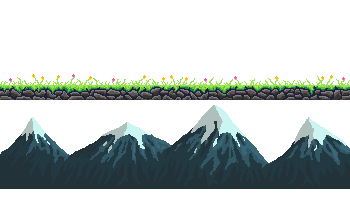
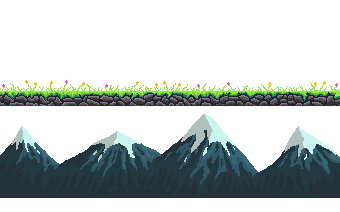
style: adpat screen size to 16:5 ratio

Changed region(s): [[0.0, 0.36, 1.0, 0.87], [0.0, 0.93, 1.0, 0.96], [0.7941, 0.6, 1.0, 0.81]]

diff --git a/src/doggo/config.py b/src/doggo/config.py
@@ -19,8 +19,9 @@ WIN = sys.platform.startswith("win")
 
 WORLD_TITLE = "Doggo"
 WORLD_FPS = 30
-WORLD_WIDTH = 350
-WORLD_HEIGHT = 100
+# Screen size to Ratio 16:5 to fit 7.9" screen.
+WORLD_WIDTH = 340
+WORLD_HEIGHT = 106
 WORLD_GROUND_HEIGHT = 15  # The size of the ground.
 WORLD_GROUND = (
     WORLD_HEIGHT - WORLD_GROUND_HEIGHT
